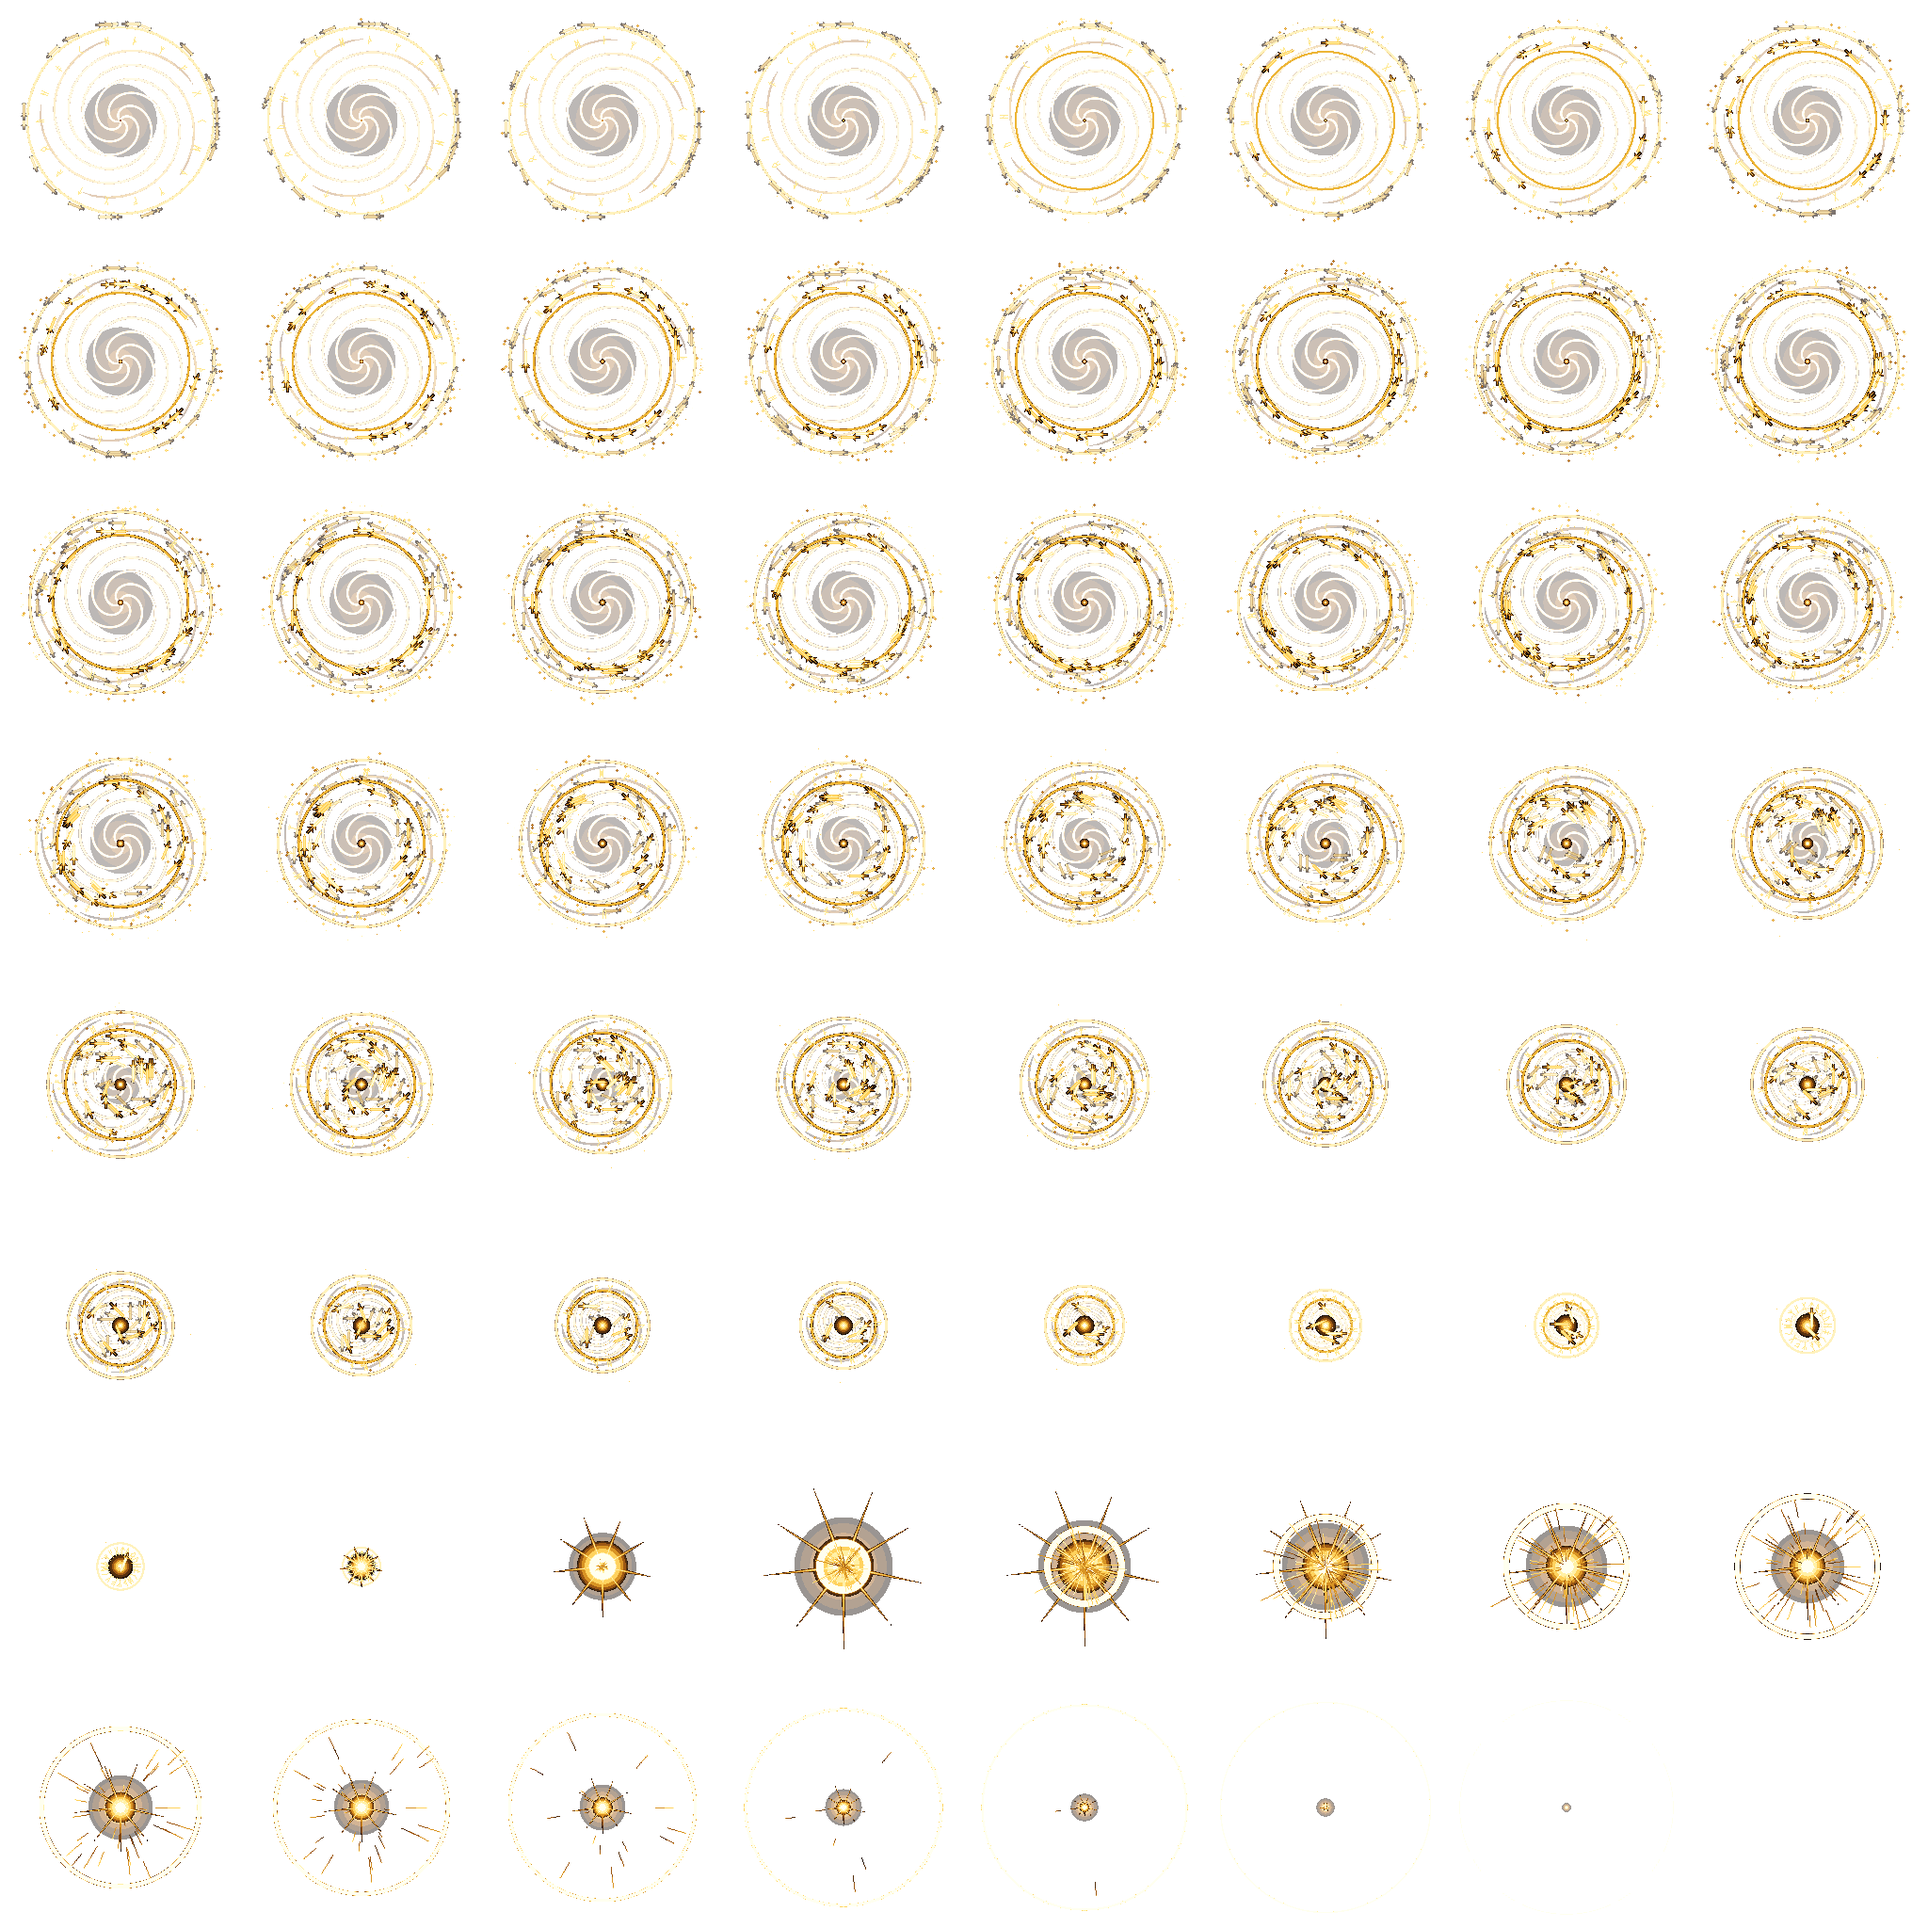
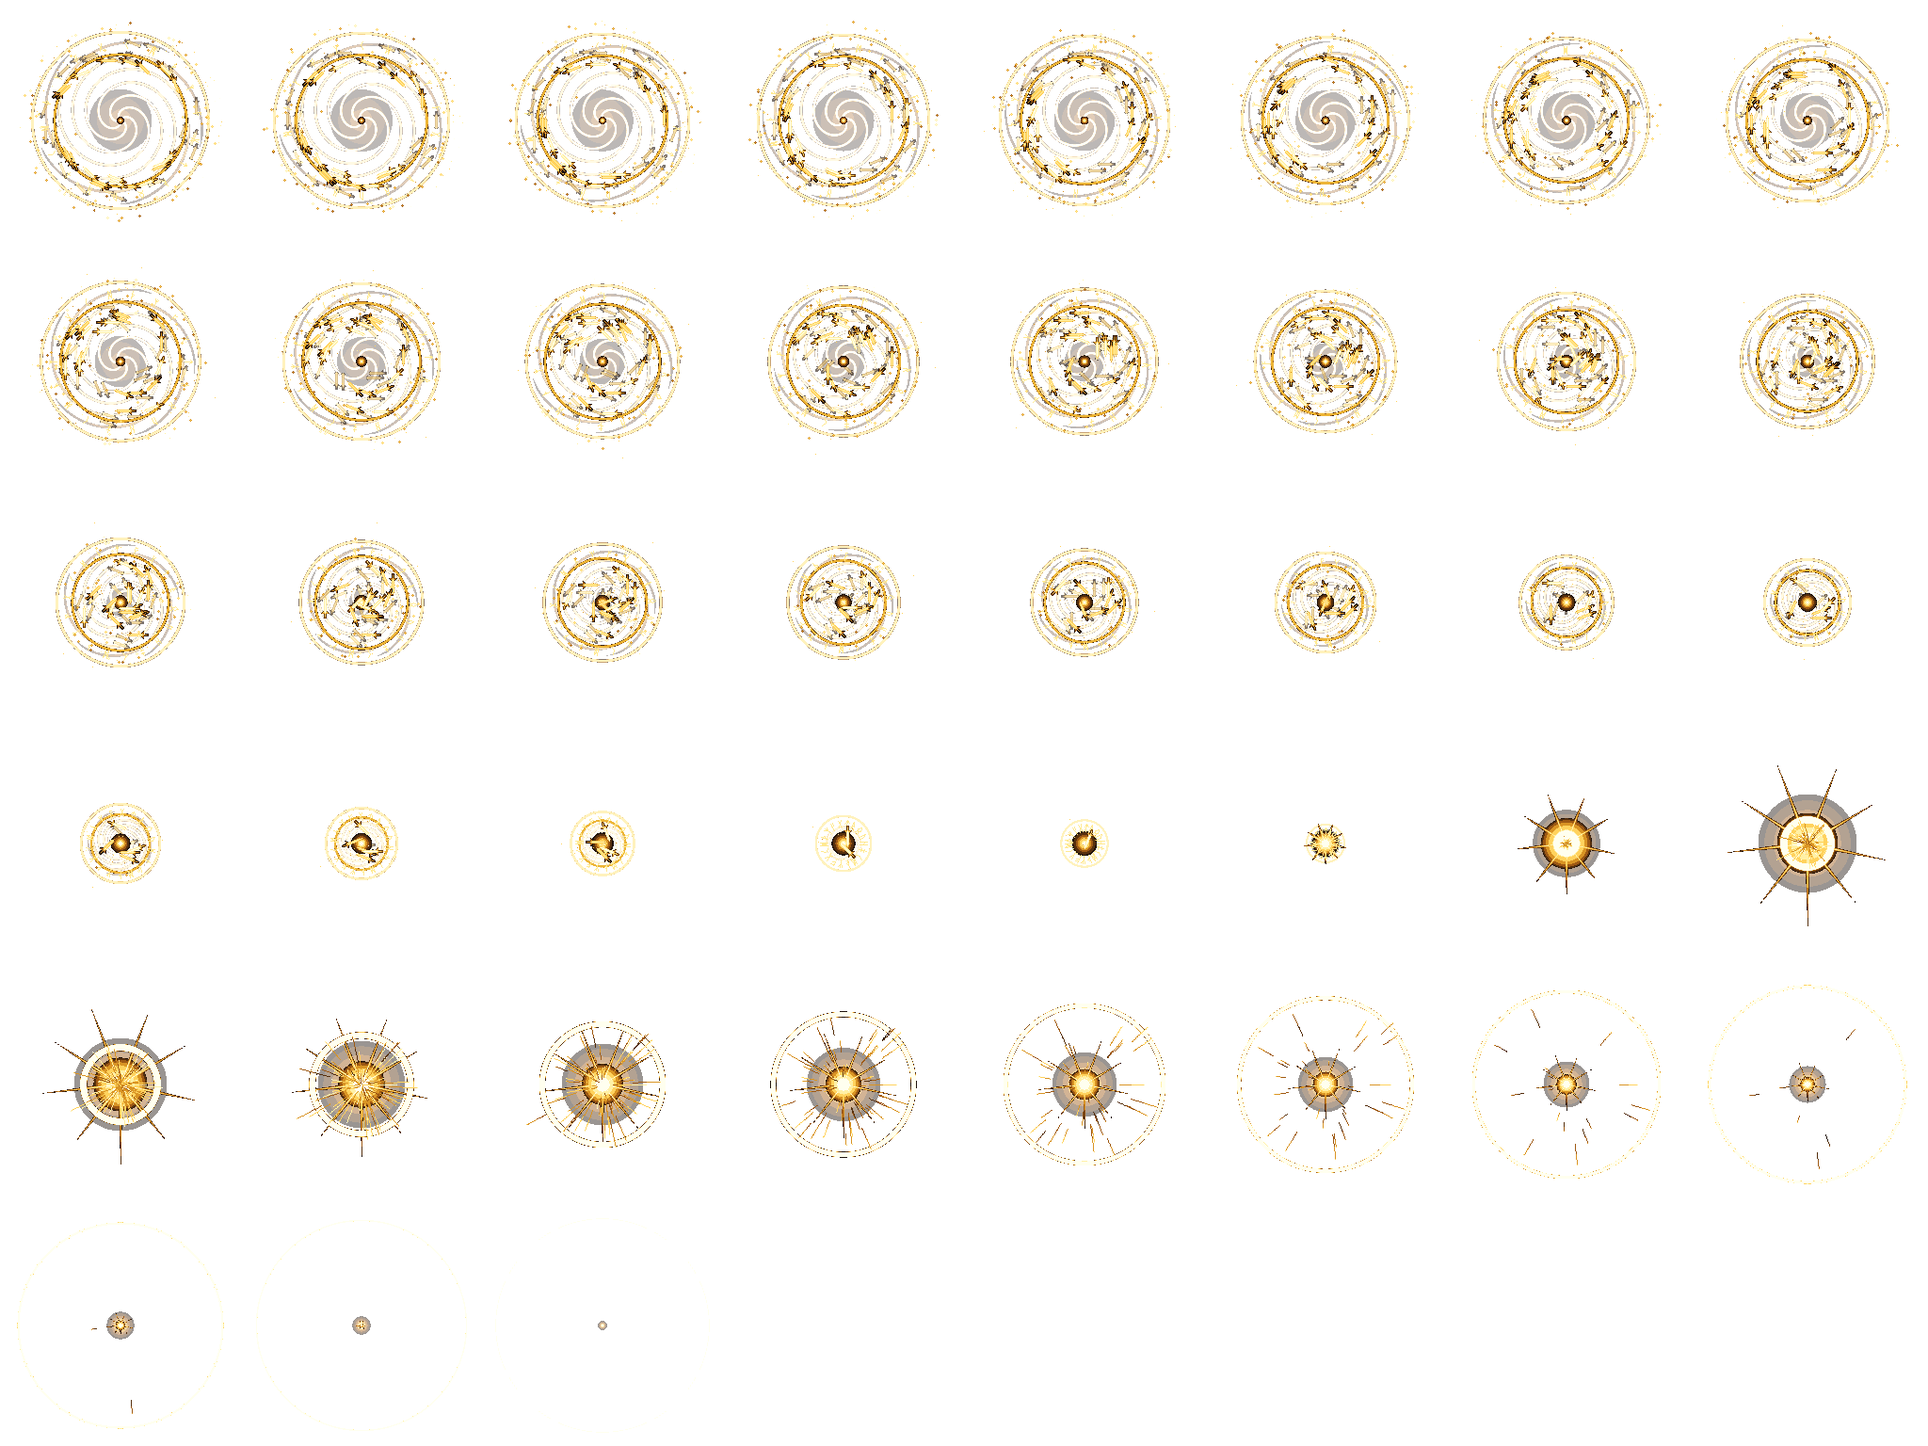
Vạn Kiếm: cắt vk_hop còn 44 khung, không tải sẵn vk_e (giữ ngân sách mở game)
Claude-Session: https://claude.ai/code/session_01QQj46rsF4z2ee4KuP8oJja

diff --git a/game/index.html b/game/index.html
@@ -1955,14 +1955,14 @@ const lazyImg=(obj,key,i,src,after)=>{let on=false;Object.defineProperty(obj,key
    Kiểm dung lượng/ngân sách: `bash cong_cu/claude/pack_check.sh` (dùng `window.__packs()` ở cuối file). Nhớ chạy `python3 cong_cu/claude/png_palette.py` cho ảnh mới. */
 const PACKS={vfx:{god:'wk_',dao:'dq_',truong:'pm_',quat:'hl_',cung:'th_',quyen:'qy_',kiem:'vk_'}};
 const LAZY_VFX_RE=new RegExp('^('+Object.values(PACKS.vfx).join('|')+'|vk_e$|tx_in$|tx_loop$|tx_out$)'),_nvf=new Set();
-function needVfxFor(w){const pf=PACKS.vfx[w];if(!pf||_nvf.has(pf))return;_nvf.add(pf);for(const n in SPX)if(n.startsWith(pf))VFX[n]}/* chạm vào để bắt đầu tải hiệu ứng của phái đang chơi */
+function needVfxFor(w){const pf=PACKS.vfx[w];if(!pf||_nvf.has(pf))return;_nvf.add(pf);for(const n in SPX)if(n.startsWith(pf)&&n!=='vk_e')VFX[n]}/* chạm vào để bắt đầu tải hiệu ứng của phái đang chơi */
 var pmT=0;
 /* hiệu ứng gói Wuxia */
 const VFX={};['arc_sheet','wanjian_sword','petal','rulai_crater','taiji','ink_slash','ink_impact','ink_trail','bagua_vang','bua_vang','bagua_do','bua_do','qy_an','rulai_hand','rulai_dust','rulai_rock','van_vang','qy_van','qy_hand','qy_crater','qy_dust','qy_rock'].forEach(n=>{const i=new Image();i.src='assets/vfx/'+n+'.png';preDecode(i);VFX[n]=i});
 // VFX Tôn Ngộ Không (PixelLab pro): lưới đều, khung theo hàng; px,py = tâm (người/điểm nện/điểm trúng)
 const SPX={hl_petals:{w:338,h:183,c:8,n:23,px:-74,py:131},hl_decoy:{w:85,h:106,c:8,n:25,px:40,py:95},hl_heal:{w:304,h:179,c:8,n:28,px:149,py:89},th_bind:{w:412,h:124,c:6,n:27,px:57,py:85},th_dash:{w:406,h:183,c:6,n:20,px:57,py:150},th_eclipse:{w:465,h:168,c:6,n:28,px:57,py:113},pm_bell:{w:202,h:225,c:8,n:34,px:101,py:209},qy_bell:{w:202,h:225,c:8,n:34,px:101,py:209},pm_palm:{w:293,h:207,c:8,n:17,px:11,py:158},qy_palm:{w:293,h:207,c:8,n:17,px:11,py:158},pm_guard:{w:312,h:321,c:8,n:25,px:159,py:307},pm_slash:{w:96,h:96,c:4,n:8,px:48,py:48},dq_cleave:{w:272,h:326,c:8,n:16,px:3,py:301},dq_triple:{w:285,h:338,c:8,n:23,px:-13,py:301},dq_ring:{w:460,h:232,c:6,n:17,px:230,py:141},wk_arc:{w:187,h:302,c:3,n:9,px:66,py:246},wk_puff2:{w:35,h:24,c:3,n:7,px:20,py:17},wk_slash:{w:192,h:193,c:3,n:9,px:75,py:107},wk_thrust:{w:232,h:80,c:3,n:7,px:29,py:19},wk_hit:{w:85,h:84,c:3,n:9,px:40,py:43},
  wk_stomp:{w:159,h:176,c:8,n:8,px:80,py:112},wk_roar:{w:260,h:275,c:8,n:8,px:41,py:194},wk_summon:{w:251,h:259,c:8,n:8,px:125,py:202},wk_whirl:{w:197,h:213,c:8,n:8,px:101,py:121},wk_cloud:{w:140,h:104,c:4,n:10,px:70,py:52},wk_puff:{w:97,h:92,c:3,n:9,px:52,py:44},
- sw_a:{w:140,h:45,c:3,n:8,px:68,py:44},swhit:{w:64,h:64,c:3,n:6,px:32,py:32},k5a_front:{w:82,h:103,c:3,n:6,px:-36,py:106},k5b_front:{w:124,h:163,c:3,n:6,px:22,py:151},wanjian_sword:{w:96,h:96,c:1,n:1,px:48,py:48},set_ring:{w:190,h:80,c:4,n:12,px:95,py:40},set_bolt:{w:80,h:240,c:4,n:12,px:40,py:228},set_bolt_vang:{w:80,h:240,c:4,n:12,px:40,py:228},qy_hit:{w:64,h:64,c:3,n:8,px:32,py:32},set_no_vang:{w:240,h:140,c:4,n:12,px:120,py:100},set_bolt_do:{w:80,h:240,c:4,n:12,px:40,py:228},set_no_do:{w:240,h:140,c:4,n:12,px:120,py:100},set_len_do:{w:240,h:230,c:4,n:12,px:120,py:208},k5c_pro:{w:196,h:202,c:4,n:15,px:89,py:104},k5c_behind:{w:360,h:224,c:4,n:15,px:180,py:154},k5c_front:{w:360,h:224,c:4,n:15,px:180,py:154},hv_mark:{w:128,h:66,c:5,n:17,px:64,py:33},hv_vortex_b:{w:191,h:92,c:4,n:14,px:96,py:98},hv_vortex_f:{w:209,h:100,c:6,n:28,px:106,py:100},hv_ring:{w:137,h:131,c:5,n:19,px:69,py:83},tx_in:{w:365,h:604,c:11,n:30,px:215,py:520},tx_loop:{w:309,h:278,c:13,n:60,px:155,py:196},tx_out:{w:304,h:269,c:11,n:11,px:153,py:187},vk_e:{w:838,h:316,c:4,n:46,px:198,py:213},hp_guard:{w:128,h:128,c:1,n:1,px:64,py:64},hp_imp:{w:48,h:48,c:8,n:8,px:24,py:24},hp_star:{w:64,h:64,c:10,n:10,px:32,py:32},wx_slash:{w:96,h:96,c:4,n:8,px:48,py:48},wx_slash_vang:{w:96,h:96,c:4,n:8,px:48,py:48},vk_qi:{w:190,h:32,c:5,n:24,px:125,py:16},vk_hop:{w:256,h:256,c:8,n:64,px:128,py:128},swqi_vang:{w:64,h:48,c:3,n:6,px:36,py:24},zs1:{w:101,h:87,c:3,n:9,px:44,py:102},zs2:{w:108,h:122,c:3,n:7,px:32,py:117},zs3:{w:87,h:88,c:3,n:9,px:30,py:90},slash_el:{w:48,h:80,c:3,n:8,px:24,py:40},swqi:{w:64,h:48,c:3,n:6,px:36,py:24},sw_arc:{w:96,h:96,c:3,n:7,px:46,py:49},
+ sw_a:{w:140,h:45,c:3,n:8,px:68,py:44},swhit:{w:64,h:64,c:3,n:6,px:32,py:32},k5a_front:{w:82,h:103,c:3,n:6,px:-36,py:106},k5b_front:{w:124,h:163,c:3,n:6,px:22,py:151},wanjian_sword:{w:96,h:96,c:1,n:1,px:48,py:48},set_ring:{w:190,h:80,c:4,n:12,px:95,py:40},set_bolt:{w:80,h:240,c:4,n:12,px:40,py:228},set_bolt_vang:{w:80,h:240,c:4,n:12,px:40,py:228},qy_hit:{w:64,h:64,c:3,n:8,px:32,py:32},set_no_vang:{w:240,h:140,c:4,n:12,px:120,py:100},set_bolt_do:{w:80,h:240,c:4,n:12,px:40,py:228},set_no_do:{w:240,h:140,c:4,n:12,px:120,py:100},set_len_do:{w:240,h:230,c:4,n:12,px:120,py:208},k5c_pro:{w:196,h:202,c:4,n:15,px:89,py:104},k5c_behind:{w:360,h:224,c:4,n:15,px:180,py:154},k5c_front:{w:360,h:224,c:4,n:15,px:180,py:154},hv_mark:{w:128,h:66,c:5,n:17,px:64,py:33},hv_vortex_b:{w:191,h:92,c:4,n:14,px:96,py:98},hv_vortex_f:{w:209,h:100,c:6,n:28,px:106,py:100},hv_ring:{w:137,h:131,c:5,n:19,px:69,py:83},tx_in:{w:365,h:604,c:11,n:30,px:215,py:520},tx_loop:{w:309,h:278,c:13,n:60,px:155,py:196},tx_out:{w:304,h:269,c:11,n:11,px:153,py:187},vk_e:{w:838,h:316,c:4,n:46,px:198,py:213},hp_guard:{w:128,h:128,c:1,n:1,px:64,py:64},hp_imp:{w:48,h:48,c:8,n:8,px:24,py:24},hp_star:{w:64,h:64,c:10,n:10,px:32,py:32},wx_slash:{w:96,h:96,c:4,n:8,px:48,py:48},wx_slash_vang:{w:96,h:96,c:4,n:8,px:48,py:48},vk_qi:{w:190,h:32,c:5,n:24,px:125,py:16},vk_hop:{w:256,h:256,c:8,n:44,px:128,py:128},swqi_vang:{w:64,h:48,c:3,n:6,px:36,py:24},zs1:{w:101,h:87,c:3,n:9,px:44,py:102},zs2:{w:108,h:122,c:3,n:7,px:32,py:117},zs3:{w:87,h:88,c:3,n:9,px:30,py:90},slash_el:{w:48,h:80,c:3,n:8,px:24,py:40},swqi:{w:64,h:48,c:3,n:6,px:36,py:24},sw_arc:{w:96,h:96,c:3,n:7,px:46,py:49},
  cA_behind:{w:132,h:128,c:3,n:6,px:74,py:136},cA_front:{w:73,h:14,c:2,n:4,px:-39,py:57},cB_behind:{w:90,h:124,c:3,n:6,px:17,py:130},cB_front:{w:104,h:162,c:3,n:6,px:13,py:148},cC_behind:{w:151,h:23,c:3,n:7,px:76,py:62},cC_front:{w:191,h:72,c:3,n:7,px:100,py:65},sw_b:{w:62,h:90,c:3,n:9,px:6,py:79},sw_c:{w:176,h:148,c:4,n:10,px:88,py:74}};  // combo kiếm: cA/cB/cC theo ảnh chủ game, lớp behind (sau người) + front (trước người), mốc = chân
 const isWk=()=>P.god&&P.god.def.look==='wukong';
 // Gậy Như Ý do PixelLab vẽ riêng ở độ phân giải gốc (không phóng to): đầu bịt trên + 1 hàng thân + đầu bịt dưới. Kéo dài chỉ lặp hàng thân. Vẽ dọc từ y=0 xuống y=len.
@@ -3624,7 +3624,7 @@ function drawZone(z){
   /* 25/11 4 NHỊP: (1) bắt ấn: lá bùa lớn trên đầu, nhân vật nhấc lên; (2) triệu kiếm khí (vk_qi PixelLab) nhô lên 2 vòng; (3) kiếm khí bay theo làn và CẮM xuống; (4) tất cả hợp về tâm (vk_hop PixelLab) rồi Thiên Kiếm đâm xuống */
   if(tt<0.95&&vok('bua_vang')){const a1=Math.min(1,tt/0.3)*(tt<0.6?1:Math.max(0,1-(tt-0.6)/0.35));c.save();c.globalAlpha=a1;c.imageSmoothingEnabled=false;c.translate(Math.round(z.x),Math.round(z.y-118-tt*18));c.rotate(Math.sin(tt*9)*0.06);c.scale(3,3);c.drawImage(VFX.bua_vang,-8,-19);c.restore()}
   if(!z.gh)z.gh=vkGhosts(z.x,z.y,ca,sa,lowfx?10:18);const CONV=3.3,GQ=vok('vk_qi')?SPX.vk_qi:null;
-  if(vok('vk_hop')&&tt>=CONV&&tt<CONV+1.9){const m=SPX.vk_hop,fi=Math.min(63,20+Math.floor((tt-CONV)*24)),fa=tt<CONV+1.6?1:Math.max(0,1-(tt-CONV-1.6)/0.3);c.save();c.globalCompositeOperation='lighter';c.globalAlpha=0.9*fa;c.imageSmoothingEnabled=false;if(fi<46){c.translate(z.x,gy0-2);c.scale(1.25,0.45)}else{c.translate(z.x,gy0-70);c.scale(1.5,1.5)}c.drawImage(VFX.vk_hop,(fi%m.c)*m.w,Math.floor(fi/m.c)*m.h,m.w,m.h,-m.px,-m.py,m.w,m.h);c.restore()}
+  if(vok('vk_hop')&&tt>=CONV&&tt<CONV+1.9){const m=SPX.vk_hop,fi=Math.min(43,Math.floor((tt-CONV)*24)),fa=tt<CONV+1.6?1:Math.max(0,1-(tt-CONV-1.6)/0.3);c.save();c.globalCompositeOperation='lighter';c.globalAlpha=0.9*fa;c.imageSmoothingEnabled=false;if(fi<26){c.translate(z.x,gy0-2);c.scale(1.25,0.45)}else{c.translate(z.x,gy0-70);c.scale(1.5,1.5)}c.drawImage(VFX.vk_hop,(fi%m.c)*m.w,Math.floor(fi/m.c)*m.h,m.w,m.h,-m.px,-m.py,m.w,m.h);c.restore()}
   if(GQ){const la0=Math.atan2(sa,ca);for(const g of z.gh){let x,y,ang,al;const sy0=gy0+Math.sin(g.phi)*g.rx*0.33-40,sx0=z.x+Math.cos(g.phi)*g.rx,tY=g.ey-65*ks1;
     if(tt<g.ri)continue;
     if(tt<g.tl){const k=clamp((tt-g.ri)/0.4,0,1);x=sx0;y=sy0+(1-k)*50;ang=-Math.PI/2;al=0.62*k}
